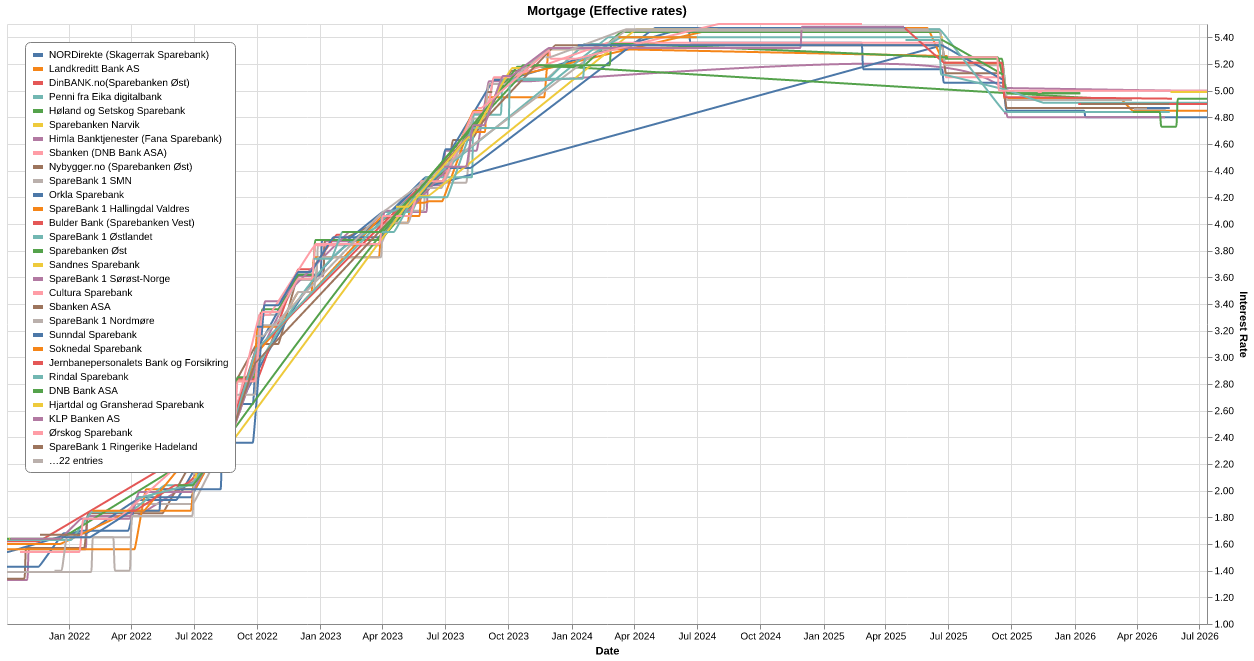
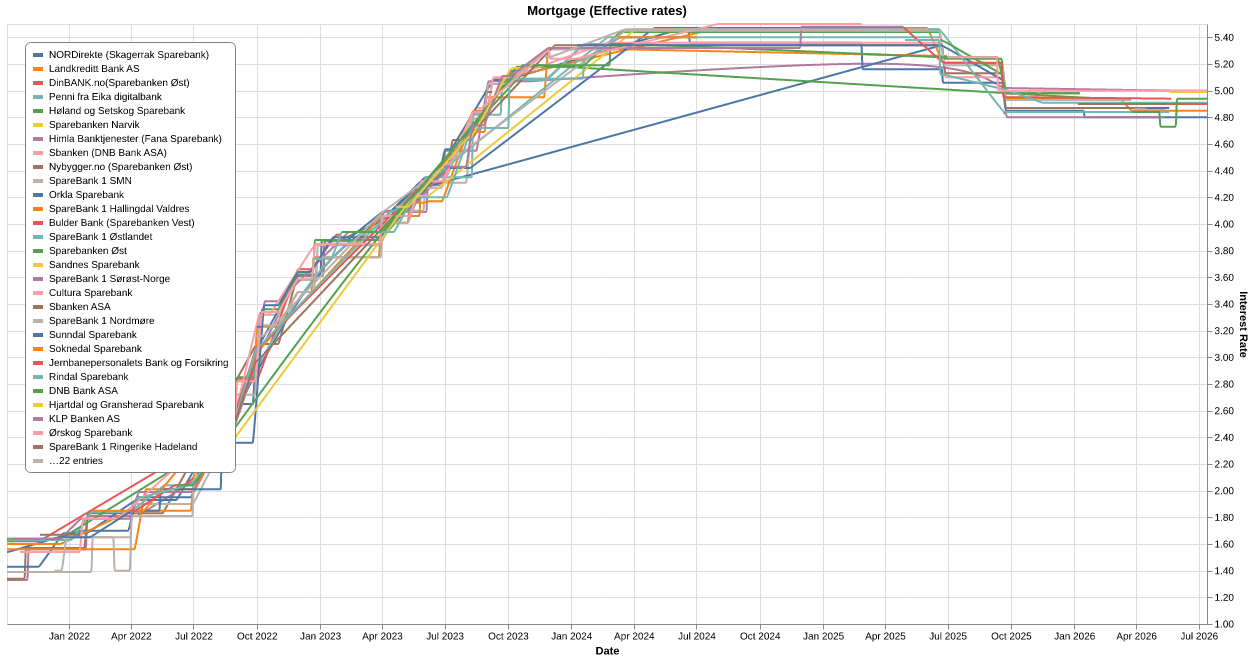
Scheduled data update

diff --git a/README.md b/README.md
@@ -12,9 +12,9 @@ The datasets in this repository are automaticly updated every day at **2:05 AM**
 <!-- table starts -->
 |Dataset|Source|Date Range|Updated|Download|Preview|
 | :--- | :--- | :--- | :--- | :--- | :--- |
-|[Mortgage](#mortgage)|Finansportalen|2021 - Present|2026-07-12|[<center>csv</center>](https://raw.githubusercontent.com/frefrik/norway-finance-statistics/master/data/no_mortgage.csv)|[<center>preview</center>](data/no_mortgage.csv)|
+|[Mortgage](#mortgage)|Finansportalen|2021 - Present|2026-07-13|[<center>csv</center>](https://raw.githubusercontent.com/frefrik/norway-finance-statistics/master/data/no_mortgage.csv)|[<center>preview</center>](data/no_mortgage.csv)|
 |[Key policy rate](#key-policy-rate)|Norges Bank|1991 - Present|2026-07-10|[<center>csv</center>](https://raw.githubusercontent.com/frefrik/norway-finance-statistics/master/data/no_keyPolicyRate.csv)|[<center>preview</center>](data/no_keyPolicyRate.csv)|
-|[NOWA](#nowa---norwegian-overnight-weighted-average)|Norges Bank|2011 - Present|2026-07-12|[<center>csv</center>](https://raw.githubusercontent.com/frefrik/norway-finance-statistics/master/data/no_nowa.csv)|[<center>preview</center>](data/no_nowa.csv)|
+|[NOWA](#nowa---norwegian-overnight-weighted-average)|Norges Bank|2011 - Present|2026-07-13|[<center>csv</center>](https://raw.githubusercontent.com/frefrik/norway-finance-statistics/master/data/no_nowa.csv)|[<center>preview</center>](data/no_nowa.csv)|
 |[Exchange Rates](#exchange-rates)|Norges Bank|1980 - Present|2026-07-11|[<center>csv</center>](https://raw.githubusercontent.com/frefrik/norway-finance-statistics/master/data/no_exchangeRates.csv)|[<center>preview</center>](data/no_exchangeRates.csv)|
 |[Inflation Indicators (CPI)](#inflation-indicators-cpi)|Norges Bank|2006 - Present|2026-06-10|[<center>csv</center>](https://raw.githubusercontent.com/frefrik/norway-finance-statistics/master/data/no_cpi.csv)|[<center>preview</center>](data/no_cpi.csv)|
 <!-- table ends -->